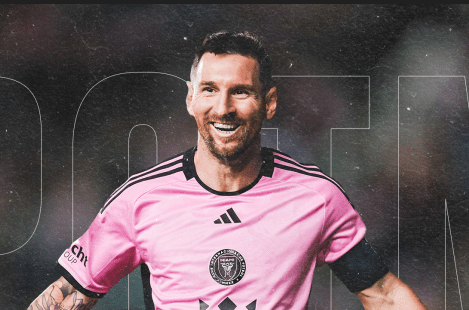
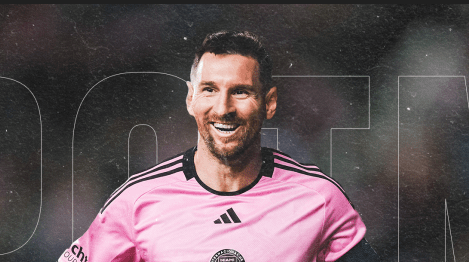
fotos de muestra

diff --git a/Trabajo Final de PDI/ver_puntos.py b/Trabajo Final de PDI/ver_puntos.py
@@ -1,0 +1,244 @@
+import cv2
+import mediapipe as mp
+import pickle
+import numpy as np
+import time
+
+from normalizarKeypoints import normalizarKeypoints as normalizarPostura
+from normalizarKeypoints_Rostro import normalizarKeypoints as normalizarRostro
+from pre_processing_functions import is_blurry, get_brightness, sharpen_image, adjust_gamma
+
+#Función para calcular el ángulo de rotación
+def calcular_angulo_rotacion(punto_centroide, punto_izquierdo, punto_derecho, vector_referencia=np.array([0,0,-1])):
+    """Calcula el ángulo entre la normal definida por los puntos
+    (punto_izquierdo, punto_derecho, punto_centroide) y un vector de referencia.
+    Parámetros:
+        punto_centroide: array-like de 3 elementos (x,y,z)
+        punto_izquierdo: array-like de 3 elementos (x,y,z)
+        punto_derecho: array-like de 3 elementos (x,y,z)
+        vector_referencia: array-like de 3 elementos, vector para comparar (default [0,0,1])
+    Retorna:
+        angulo (float)"""
+    # Convertir a numpy arrays
+    centroide = np.array(punto_centroide, dtype=float)
+    izquierdo = np.array(punto_izquierdo, dtype=float)
+    derecho = np.array(punto_derecho, dtype=float)
+    ref = np.array(vector_referencia, dtype=float)
+
+    # Vectores desde centroide a los puntos de los ojos
+    v1 = izquierdo - centroide
+    v2 = derecho - centroide
+
+    # Vector normal al plano definido por esos dos vectores (producto cruzado)
+    normal = np.cross(v1, v2)
+    norma = np.linalg.norm(normal)
+
+    if norma == 0:
+        raise ValueError("Los puntos están alineados, no se puede calcular normal.")
+
+    normal_u = normal / norma
+
+    # Normalizar vector de referencia
+    ref_u = ref / np.linalg.norm(ref)
+
+    # Calcular el ángulo con clip para evitar errores numéricos
+    dot = np.clip(np.dot(normal_u, ref_u), -1.0, 1.0)
+    angulo =np.degrees(np.arccos(dot))
+    return angulo
+
+# Cargar modelos
+with open("Trabajo Final de PDI/modelo_postura.pkl", "rb") as f:
+    modelo_postura = pickle.load(f)
+with open("Trabajo Final de PDI/modelo_dolor.pkl", "rb") as f:
+    modelo_dolor = pickle.load(f)
+
+# Inicialización
+mp_drawing = mp.solutions.drawing_utils
+mp_pose = mp.solutions.pose
+mp_holistic = mp.solutions.holistic
+# Inicializa el modelo
+pose = mp_pose.Pose()
+
+font = cv2.FONT_HERSHEY_SIMPLEX
+
+# AU del rostro
+au_landmarks = {
+    "AU4": [70, 63, 53, 105, 52, 66, 65, 107, 55, 285, 336, 295, 296, 282, 334, 283, 293, 300],
+    "AU6": [352, 346, 347, 280, 266, 330, 425, 118, 101, 142, 36, 50, 117, 123],
+    "AU7": [381, 380, 477, 373, 390, 256, 252, 253, 254, 339, 255, 359, 446, 26, 154, 22, 153, 23 ,145, 24, 144, 110, 163, 25, 7, 130, 341, 382],
+    "AU9": [64, 235, 98, 327, 294, 455, 278, 360, 363, 281, 5, 51, 134, 131, 102, 331, 79, 239,44, 274, 459, 457, 309, 289, 59],
+    "AU10": [185, 74, 39, 37, 0, 267, 269, 270, 409, 272, 271, 268, 12, 38, 41, 40],
+    "AU43": [382, 380, 477, 373, 390, 249, 263, 466, 388, 387, 386, 385, 476, 384, 398, 173, 157, 158, 159, 160, 161, 7, 33, 163, 144, 145, 153, 154,314, 405, 321, 17, 84, 181, 91, 146, 320, 403, 316, 15, 86, 179, 90, 180, 85, 315, 16, 404, 320],
+    "AUDEMAS":[291, 61, 57, 186, 165, 92, 167, 167, 167, 164, 393, 391, 322, 410, 8, 9, 168, 6, 197, 195, 5, 281, 363, 360, 51, 134, 131, 49, 5, 3, 236, 248, 456, 419, 196, 351, 122],
+    "AUCIEN": [368, 139]
+}
+au_colors = {
+            "AU4": (255, 0, 0),       # Rojo para cejas
+            "AU6": (0, 255, 0),       # Verde para mejillas
+            "AU7": (0, 128, 255),     # Celeste para párpados
+            "AU9": (0, 0, 255),       # Azul para nariz
+            "AU10": (255, 0, 255),    # Fucsia para labio superior
+            "AU43": (255, 255, 0) ,    # Amarillo para ojos cerrados
+            "AUDEMAS": (0, 255, 255),   # Naranja para cejas y ojos
+            "AUCIEN": (255, 255, 255)  # Blanco para AUCIEN
+            }
+# Definir keypoints del torso
+keypoints_torso = [
+    mp_pose.PoseLandmark.NOSE,
+    mp_pose.PoseLandmark.LEFT_EYE,
+    mp_pose.PoseLandmark.RIGHT_EYE,
+    mp_pose.PoseLandmark.LEFT_EAR,
+    mp_pose.PoseLandmark.RIGHT_EAR,
+    mp_pose.PoseLandmark.MOUTH_LEFT,
+    mp_pose.PoseLandmark.MOUTH_RIGHT,
+    mp_pose.PoseLandmark.LEFT_SHOULDER,
+    mp_pose.PoseLandmark.RIGHT_SHOULDER
+]
+
+# Cargar imagen
+imagen = cv2.imread(r"C:\Users\pablo\Desktop\PDI\PDI\Trabajo Final de PDI\Messi.png")
+if imagen is None:
+    raise ValueError("No se pudo cargar la imagen. Verifica la ruta.")
+
+imagen = cv2.flip(imagen, 1)
+frame = imagen.copy()
+
+#Inicializamos MediaPipe Holistic 
+with mp_holistic.Holistic(
+    static_image_mode=False,           # True si analizamos imágenes estáticas
+    model_complexity=1,                # 0 = rápido pero menos preciso, 1 = balanceado, 2 = más preciso pero más lento
+    smooth_landmarks=True,             # Suaviza las detecciones en video
+    enable_segmentation=False,         # No segmentamos el cuerpo
+    refine_face_landmarks=True,        # Detección refinada de rostro
+    min_detection_confidence=0.5,      # Confianza mínima para detectar
+    min_tracking_confidence=0.5        # Confianza mínima para seguir puntos
+) as holistic:
+ 
+ 
+
+        frame = cv2.flip(frame, 1)
+        rgb = cv2.cvtColor(frame, cv2.COLOR_BGR2RGB)
+        results = holistic.process(rgb)
+
+        annotated = frame.copy()
+        h, w, _ = annotated.shape
+
+       
+        h, w, _ = frame.shape
+        #PREPROCESAMIENTO DE LA IMAGEN
+        blurry, blur_score = is_blurry(frame)
+        if blurry:
+                frame = sharpen_image(frame)
+        brightness = get_brightness(frame)
+        illumination_state = (
+                        "Oscura" if brightness < 60 else
+                        "Normal" if brightness < 200 else
+                        "Sobreexpuesta"
+                )
+        if illumination_state == "Oscura":
+            frame = adjust_gamma(frame, gamma=1.5)
+        elif illumination_state == "Sobreexpuesta":
+            frame = adjust_gamma(frame, gamma=0.7)
+
+        # ------------------ DETECCIÓN DE POSTURA ------------------
+        if results.pose_landmarks:
+            landmarks = results.pose_landmarks.landmark
+
+            # Extraer sólo los keypoints del torso: [x0, y0, x1, y1, ..., x8, y8]
+            keypoints = []
+            for idx in keypoints_torso:
+                lm = landmarks[idx.value]
+                keypoints.extend([lm.x, lm.y, lm.z])
+            norm_keypoints = normalizarRostro(keypoints)
+
+            # Clasificar postura
+            prediction = modelo_postura.predict(np.array([norm_keypoints]))[0]
+            label = "Buena Postura" if prediction == "buena" else "Mala Postura"
+            color = (0, 255, 0) if prediction == "buena" else (0, 0, 255)
+
+            # Dibujar texto de la postura
+            font_scale = 0.5
+            thickness = 1
+            #__Obtener dimensiones del texto y la imagen
+            (text_width, text_height), _ = cv2.getTextSize(label, font, font_scale, thickness)
+            img_h, img_w = frame.shape[:2]
+            #__Posición en la esquina inferior derecha con margen
+            x = img_w - text_width - 20  # Margen derecho de 20 píxeles
+            y = img_h - 20  # Margen inferior de 20 píxeles
+            #__Dibujar el texto en la imagen
+            cv2.putText(annotated, label, (x, y), font, font_scale, color, thickness, cv2.LINE_AA)
+             
+            #Dibujar los keypoints
+            mp_drawing.draw_landmarks(
+                annotated,
+                results.pose_landmarks,
+                mp_pose.POSE_CONNECTIONS,
+                landmark_drawing_spec=mp_drawing.DrawingSpec(color=(0, 255, 0), thickness=2, circle_radius=3),
+                connection_drawing_spec=mp_drawing.DrawingSpec(color=(255, 0, 0), thickness=2)
+            )
+
+
+        # ------------------ DETECCIÓN DE DOLOR FACIAL ------------------
+        if results.face_landmarks:
+            face_landmarks = results.face_landmarks.landmark
+            #Puntos para el centroide
+            cien_derecha=face_landmarks[368]
+            cien_izquierda=face_landmarks[139]
+            centroide_x = int(((cien_izquierda.x*w) + (cien_derecha.x*w) )/ 2)
+            centroide_y = int(((cien_izquierda.y*h) + (cien_derecha.y*h) )/ 2)
+            centroide_z = int(((cien_izquierda.z*h) + (cien_derecha.z*h) )/ 2)
+            
+            cien_izquierda = np.array([face_landmarks[139].x, face_landmarks[139].y, face_landmarks[139].z])
+            cien_derecha = np.array([face_landmarks[368].x, face_landmarks[368].y, face_landmarks[368].z])
+
+            angulo=calcular_angulo_rotacion(cien_derecha,cien_izquierda,(centroide_x,centroide_y,centroide_z))
+            if angulo > 40:
+                label= "Porfavor Mira hacia la camara"
+                (text_width, text_height), _ = cv2.getTextSize(label, cv2.FONT_HERSHEY_SIMPLEX, 0.4, 1)
+                x = (w - text_width) // 2
+                y = h - 20  # 20 píxeles de margen inferior
+                cv2.putText(annotated, label, (x,y), cv2.FONT_HERSHEY_SIMPLEX, 0.4, (0,0,0), 1)
+            else:
+                #NORMALIZACION DE KEYPOINTS
+                keypoints = []
+                for au, indices in au_landmarks.items():
+                   for idx in indices:
+                        lm = face_landmarks[idx]
+                        keypoints.extend([lm.x, lm.y, lm.z])
+                norm_keypoints = normalizarRostro(keypoints)
+                #PREDICCION DE DOLOR
+                # Clasificar dolor
+                prediction = modelo_dolor.predict(np.array([norm_keypoints]))[0]
+                label = "No dolor" if prediction == "no_dolor" else "Dolor"
+                color = (0, 255, 0) if prediction == "no_dolor" else (0, 0, 255)
+
+                # Mostrar resultado centrado abajo
+                font_scale = 0.5
+                thickness = 1
+                (text_width, text_height), _ = cv2.getTextSize(label, cv2.FONT_HERSHEY_SIMPLEX, font_scale, thickness)
+                x = 20
+                y = h - 20  # 20 píxeles de margen inferior
+                cv2.putText(annotated, label, (x, y), cv2.FONT_HERSHEY_SIMPLEX, font_scale, color, thickness, cv2.LINE_AA)
+            
+
+                # Dibujo de puntos clave por AU
+                for au, indices in au_landmarks.items():
+                    color = au_colors[au]
+                    for idx in indices:
+                        x = int(face_landmarks[idx].x * w)
+                        y = int(face_landmarks[idx].y * h)
+                        cv2.circle(annotated, (x, y), 1, color, -1)
+
+                    # Etiqueta del AU
+                    #fx = int(face_landmarks[indices[0]].x * w)
+                    #fy = int(face_landmarks[indices[0]].y * h) - 5
+                    #cv2.putText(annotated, au, (fx, fy), cv2.FONT_HERSHEY_SIMPLEX, 0.4, color, 1)
+                
+                cv2.circle(annotated, (centroide_x,centroide_y), 2, (255,255,255), -1)
+
+
+agrandada = cv2.resize(annotated, None, fx=2.0, fy=2.0, interpolation=cv2.INTER_LINEAR)
+cv2.imshow("Resultado", agrandada)
+cv2.imwrite("resultado.jpg", annotated)
+cv2.waitKey(0)
+cv2.destroyAllWindows()
